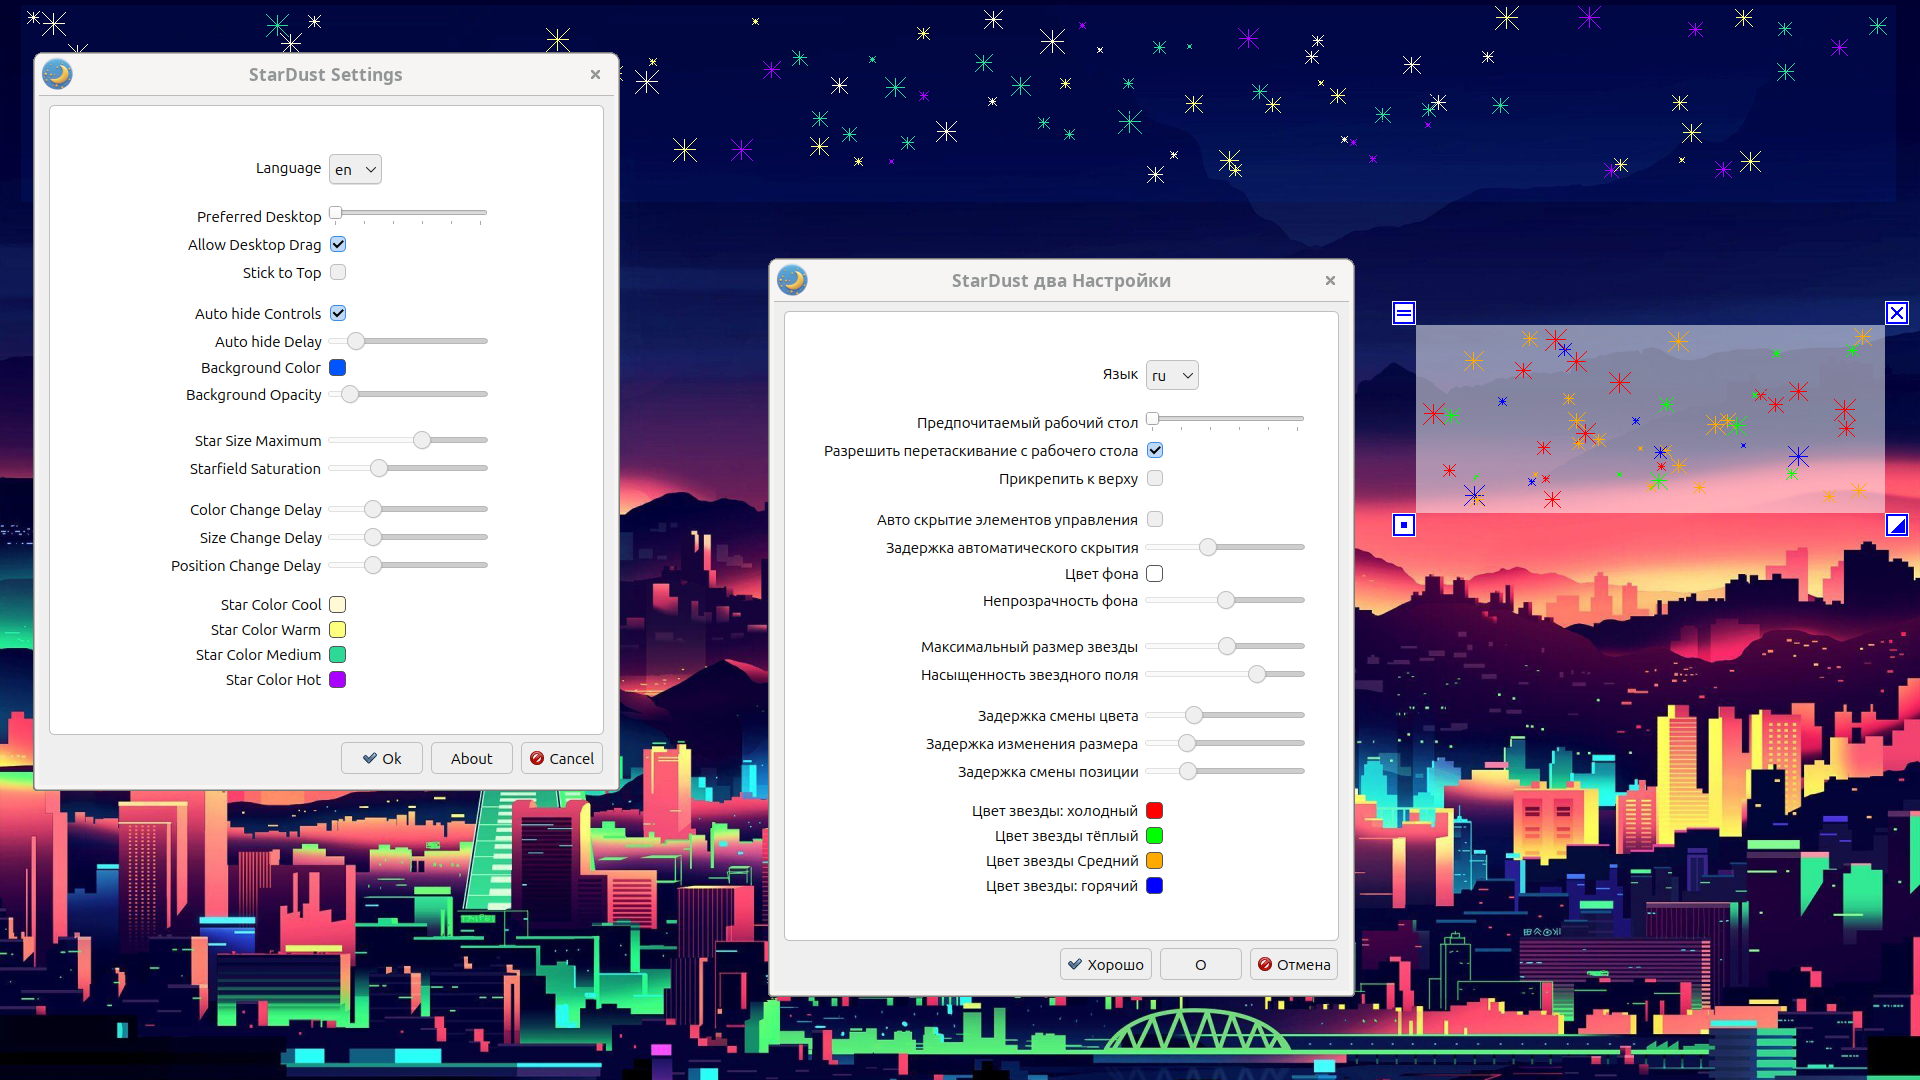
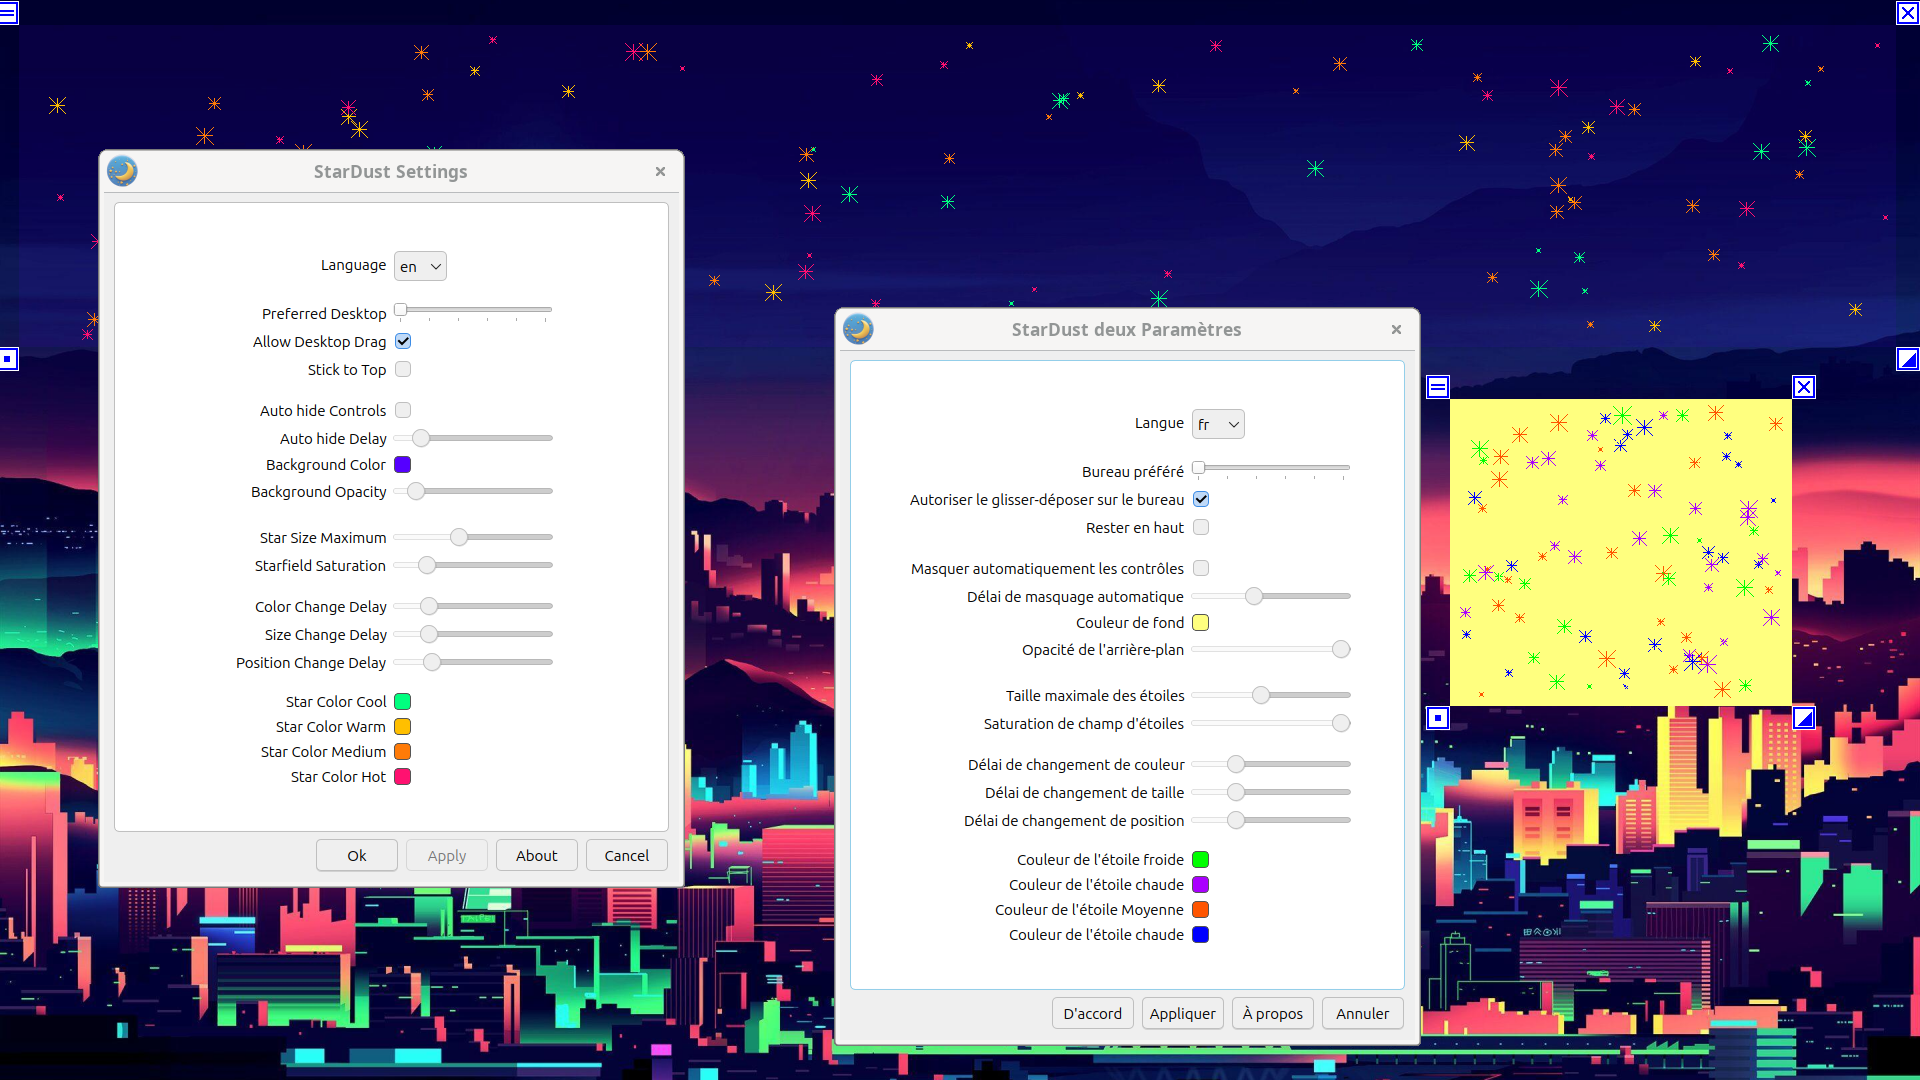
Apply Button bug & screenshot

Changed region(s): [[0.0, 0.0, 1.0, 0.9778], [0.9688, 0.0, 1.0, 0.0306]]

diff --git a/StickyWindow.cpp b/StickyWindow.cpp
@@ -33,12 +33,6 @@ StickyWindow::StickyWindow() {
         [this] () {
         setConfigModeOff();
     });
-
-    // Define any X11 message Atoms.
-    mDeleteMessage = XInternAtom(mDisplay,
-        "WM_DELETE_WINDOW", False);
-    mConfigDialogUpdated = XInternAtom(mDisplay,
-        CONFIG_DIALOG_UPDATED_EVENT.c_str(), False);
 }
 
 /**
@@ -273,7 +267,7 @@ StickyWindow::createX11Window() {
     XSelectInput(mDisplay, mX11Window, OBSERVABLE_EVENTS);
     XSelectInput(mDisplay, DefaultRootWindow(mDisplay),
         PropertyChangeMask);
-    XSetWMProtocols(mDisplay, mX11Window, &mDeleteMessage, 1);
+    XSetWMProtocols(mDisplay, mX11Window, &mCloseAppMessage, 1);
 
     // Set procID on our window, for RecentsHelper().
     mXHelper->setWindowPID(mX11Window);
@@ -738,14 +732,16 @@ StickyWindow::handleX11EventQueue() {
 
             // ClientMsg says window close.
             case ClientMessage:
+                // Our window needs updating with Config changes.
+                if (event.xclient.message_type == mConfigUpdated) {
+                    receiveConfigDialogUpdatedEvent(
+                        event.xclient.data.l[0] ? true : false);
+                    break;
+                }
                 // Our window wants close.
                 if (static_cast<Atom>(event.xclient.data.l[0]) ==
-                    mDeleteMessage) {
+                    mCloseAppMessage) {
                     return true;
-                }
-                // Our window needs updating with Config changes.
-                if (event.xclient.message_type == mConfigDialogUpdated) {
-                    receiveConfigDialogUpdatedEvent();
                 }
                 break;
 
@@ -894,14 +890,18 @@ StickyWindow::updateActiveConfigDialog() {
  * it needs to redraw canvas.
  */
 void
-StickyWindow::receiveConfigDialogUpdatedEvent() {
+StickyWindow::receiveConfigDialogUpdatedEvent(
+    const bool canvasNeedsRedraw) {
+
     setControlButtonsVisibility();
     setWindowStickPosition();
     rangeCheckPreferredDesktopSetting();
 
-    mCanvas->eraseCanvas();
-    mCanvas->uninitCanvas();
-    draw();
+    if (canvasNeedsRedraw) {
+        mCanvas->eraseCanvas();
+        mCanvas->uninitCanvas();
+        draw();
+    }
 }
 
 /**

diff --git a/ConfigDialog.cpp b/ConfigDialog.cpp
@@ -77,10 +77,6 @@ ConfigDialog::ConfigDialog(QWidget* parent) : QDialog(parent) {
 
     // Init settings change list, size / value.
     mSettingChanges.fill(false, SettingsHelper::PROPERTIES.size());
-
-    // X11 message Atoms.
-    mConfigDialogUpdated = XInternAtom(mDisplay,
-        CONFIG_DIALOG_UPDATED_EVENT.c_str(), False);
 }
 
 /**
@@ -651,6 +647,7 @@ ConfigDialog::acceptConfigDialog() {
     // change that needs a canvas redraw. We use shorthand
     // "Any changed setting in PROPERTIES list starting from
     // background color forces canvas redraw".
+    bool canvasNeedsRedraw = false;
     const int SETTINGS_SIZE = SettingsHelper::PROPERTIES.size();
     for (int index = 0; index < SETTINGS_SIZE; index++) {
         const SettingsHelper::SettingsProperty THIS_SETTING =
@@ -658,12 +655,13 @@ ConfigDialog::acceptConfigDialog() {
         if (THIS_SETTING.name == SettingsHelper::BACKGROUND_COLOR) {
             for (; index < SETTINGS_SIZE; index++) {
                 if (mSettingChanges[index] == true) {
-                    sendConfigDialogUpdatedEvent();
+                    canvasNeedsRedraw = true;
                     break;
                 }
             }
         }
     }
+    sendConfigDialogUpdatedEvent(canvasNeedsRedraw);
 
     // Translate controls to new lang for next time.
     translateConfigDialog();
@@ -678,14 +676,17 @@ ConfigDialog::acceptConfigDialog() {
  * canvas with new user config settings.
  */
 void
-ConfigDialog::sendConfigDialogUpdatedEvent() {
+ConfigDialog::sendConfigDialogUpdatedEvent(
+    const bool canvasNeedsRedraw) {
+
     XEvent event{};
     event.xclient.type = ClientMessage;
-    event.xclient.window = getWindow();
-    event.xclient.message_type = mConfigDialogUpdated;
+    event.xclient.message_type = mConfigUpdated;
 
+    event.xclient.window = getWindow();
     event.xclient.format = 32;
-    event.xclient.data.l[0] = 12345;
+
+    event.xclient.data.l[0] = canvasNeedsRedraw ? 1L : 0L;
 
     XSendEvent(mDisplay, getWindow(), False, NoEventMask, &event);
     XFlush(mDisplay);

diff --git a/StickyWidgetIII.h b/StickyWidgetIII.h
@@ -64,12 +64,6 @@ static inline constexpr XRenderColor TURQUOISE_RCOLOR =
 static inline constexpr const char*
     TIME_DISPLAY_FONT = "Serif-42:bold";
 
-// Pngs.
-static inline const QString PIN_IN_PNG_FILENAME = "pinIn.png";
-static inline const QString PIN_OUT_PNG_FILENAME = "pinOut.png";
-
-static inline const string CONFIG_DIALOG_UPDATED_EVENT =
-    "CONFIG_DIALOG_UPDATED";
 
 // App globals.
 extern DisplayHelper* mDisplayHelper;
@@ -85,3 +79,14 @@ extern Canvas* mCanvas;
 
 extern XImage* mPinInXImage;
 extern XImage* mPinOutXImage;
+
+extern Atom mCloseAppMessage;
+extern Atom mConfigUpdated;
+
+// Pngs.
+static inline const QString PIN_IN_PNG_FILENAME = "pinIn.png";
+static inline const QString PIN_OUT_PNG_FILENAME = "pinOut.png";
+
+// Window Messages.
+static inline const char* WINDOW_CLOSED = "WM_DELETE_WINDOW";
+static inline const char* CONFIG_UPDATED = "CONFIG_UPDATED";

diff --git a/StickyWindow.h b/StickyWindow.h
@@ -76,15 +76,12 @@ class StickyWindow {
 
     private:
         // Members.
+        Window mX11Window = None;
+        char* mWindowTitle = nullptr;
+
         bool mIsVisuallyTransparent = false;
         XVisualInfo mVisualInfoStruct { };
         Colormap mColorMap { };
-
-        Atom mDeleteMessage { };
-        Atom mConfigDialogUpdated { };
-
-        Window mX11Window = None;
-        char* mWindowTitle = nullptr;
 
         vector<Button*> mButtons;
         mutable recursive_mutex mButtonsMutLock;
@@ -261,7 +258,8 @@ class StickyWindow {
          * Receives an event from Qt ConfigDialog that it has
          * completed with new user config settings.
          */
-        void receiveConfigDialogUpdatedEvent();
+        void receiveConfigDialogUpdatedEvent(
+            const bool canvasNeedsRedraw);
 
         /**
          * Cursor watcher detects user actions.

diff --git a/QuitButton.cpp b/QuitButton.cpp
@@ -67,18 +67,16 @@ QuitButton::erase(const Window window) {
  */
 void
 QuitButton::click(const Window window) {
-    const Atom WM_PROTOCOLS = XInternAtom(mDisplay,
-        "WM_PROTOCOLS", False);
-    const Atom WM_DELETE_WINDOW = XInternAtom(mDisplay,
-        "WM_DELETE_WINDOW", False);
 
-    XEvent event{}; 
+    XEvent event{};
     event.xclient.type = ClientMessage;
-    event.xclient.window = window;
-    event.xclient.message_type = WM_PROTOCOLS;
+    event.xclient.message_type = XInternAtom(mDisplay,
+        "WM_PROTOCOLS", False);
 
+    event.xclient.window = window;
     event.xclient.format = 32;
-    event.xclient.data.l[0] = static_cast<long>(WM_DELETE_WINDOW);
+
+    event.xclient.data.l[0] = static_cast<long>(mCloseAppMessage);
     event.xclient.data.l[1] = CurrentTime;
 
     XSendEvent(mDisplay, window, False, NoEventMask, &event);

diff --git a/StickyWidgetIII.cpp b/StickyWidgetIII.cpp
@@ -44,12 +44,16 @@ TranslationHelper* mTranslationHelper = nullptr;
 StickyWindow* mStickyWindow = nullptr;
 Canvas* mCanvas = nullptr;
 
+// Pngs.
 XImage* mPinInXImage = nullptr;
 XImage* mPinOutXImage = nullptr;
 
-// App globals;
 QImage mPinInQImage{};
 QImage mPinOutQImage{};
+
+// Window Messages.
+Atom mCloseAppMessage{};
+Atom mConfigUpdated{};
 
 
 /**
@@ -65,6 +69,10 @@ main(int argc, char** argv) {
 
     mDisplayHelper = new DisplayHelper();
     mDisplay = mDisplayHelper->getDisplay();
+
+    // Define global X11 message Atoms.
+    mCloseAppMessage = XInternAtom(mDisplay, WINDOW_CLOSED, False);
+    mConfigUpdated = XInternAtom(mDisplay, CONFIG_UPDATED, False);
 
     // Set X Error handler (quiets non-errors).
     mXHelper = new XHelper();

diff --git a/ConfigDialog.h b/ConfigDialog.h
@@ -64,7 +64,6 @@ class ConfigDialog : public QDialog {
         QPushButton* mAboutButton = nullptr;
 
         QList<bool> mSettingChanges;
-        Atom mConfigDialogUpdated{};
 
         QDialog* mAboutDialog = nullptr;
 
@@ -87,7 +86,8 @@ class ConfigDialog : public QDialog {
          * Send an event to the X11 thread telling it to update
          * with new user config settings.
          */
-        void sendConfigDialogUpdatedEvent();
+        void sendConfigDialogUpdatedEvent(
+            const bool canvasNeedsRedraw);
 
         /**
          * Show this apps "About" dialog.
